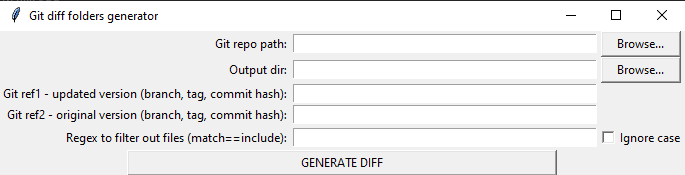
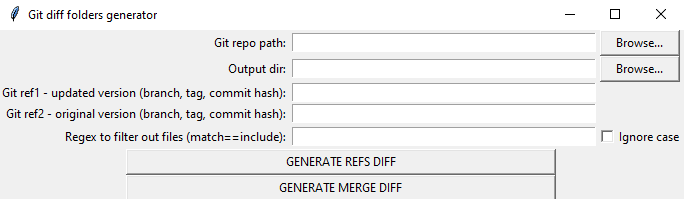
added functionality for generating merge diff

diff --git a/main.py b/main.py
@@ -95,10 +95,17 @@ class App:
 
         # row 6
         generate_button = Button(self.main_window)
-        generate_button.config(text="GENERATE DIFF")
+        generate_button.config(text="GENERATE REFS DIFF")
         generate_button.config(width=60)
-        generate_button.config(command=self.proceed_command)
+        generate_button.config(command=self.generate_refs_diff)
         generate_button.grid(row=6, column=1, columnspan=3)
+        
+        # row 7
+        generate_button2 = Button(self.main_window)
+        generate_button2.config(text="GENERATE MERGE DIFF")
+        generate_button2.config(width=60)
+        generate_button2.config(command=self.generate_merge_diff)
+        generate_button2.grid(row=7, column=1, columnspan=3)
 
     def fill_folder_path(self, entry_to_fill):
         dir_path = askdirectory(title="Select folder")
@@ -106,7 +113,7 @@ class App:
             entry_to_fill.delete(0, END)
             entry_to_fill.insert(0, dir_path)
 
-    def proceed_command(self):
+    def generate_refs_diff(self):
         try:
             repo_path = self.text_box_git_repo.get()
             output_root_dir = self.text_box_output_dir.get()
@@ -205,6 +212,70 @@ class App:
                     message="Task failed successfully for unhandled reason.",
                 )
 
+    def generate_merge_diff(self):
+        try:
+            repo_path = self.text_box_git_repo.get()
+            output_root_dir = self.text_box_output_dir.get()
+            try:
+                repo = git.Repo(repo_path)
+            except git.InvalidGitRepositoryError:
+                showerror(
+                    title="Invalid repo",
+                    message="Provided git repo path is not a valid git repository.",
+                )
+                raise
+            
+            conflicted_files = repo.index.unmerged_blobs()
+            if len(conflicted_files) > 0:
+                os.makedirs(output_root_dir, exist_ok=True)
+            for file_path in conflicted_files:
+                try:
+                    # Get the base file version (closest common parent for this file)
+                    base_blob = conflicted_files[file_path][0][1]
+                    final_path = os.path.join(output_root_dir, 'base', os.path.normpath(file_path))
+                    os.makedirs(path.dirname(final_path), exist_ok=True)
+                    base_blob.stream_data(open(final_path, "wb"))
+                except Exception as e:
+                    #print(f"can't locate file {file_path} in base versions")
+                    #log the error
+                    pass
+                
+                try:
+                    # Get the file version from HEAD (your current repository state)
+                    head_blob = conflicted_files[file_path][1][1]
+                    final_path = os.path.join(output_root_dir, 'head', os.path.normpath(file_path))
+                    os.makedirs(path.dirname(final_path), exist_ok=True)
+                    head_blob.stream_data(open(final_path, "wb"))
+                except:
+                    #print(f"can't locate file {file_path} in head versions")
+                    #log the error
+                    pass
+                
+                try:
+                    # Get the file version from MERGE_HEAD (what you are merging)
+                    merge_head_blob = conflicted_files[file_path][2][1]
+                    final_path = os.path.join(output_root_dir, 'merge_head', os.path.normpath(file_path))
+                    os.makedirs(path.dirname(final_path), exist_ok=True)
+                    merge_head_blob.stream_data(open(final_path, "wb"))
+                except:
+                    #print(f"can't locate file {file_path} in merge_head versions")
+                    #log the error
+                    pass
+
+        except Exception as e:
+            if not any(
+                [
+                    isinstance(e, handled_exception)
+                    for handled_exception in [
+                        git.InvalidGitRepositoryError,
+                        git.BadName,
+                    ]
+                ]
+            ):
+                showerror(
+                    title="ERROR",
+                    message="Task failed successfully for unhandled reason.",
+                )
 
 if __name__ == "__main__":
     app = App()

diff --git a/README.md b/README.md
@@ -23,3 +23,11 @@ Simple python app with GUI based on tkinter library that generates folder struct
 
 ### Added
 - single function for generating diff between two given references
+
+## v2
+
+### Added
+- function for generating merge diff (3-way merge) (GENERATE MERGE DIFF button); resulting folder structure creates 3 folders:
+    - Base - common ancestor, 
+    - Head - current version of file, 
+    - Merge_head - version of file from reference you are merging
